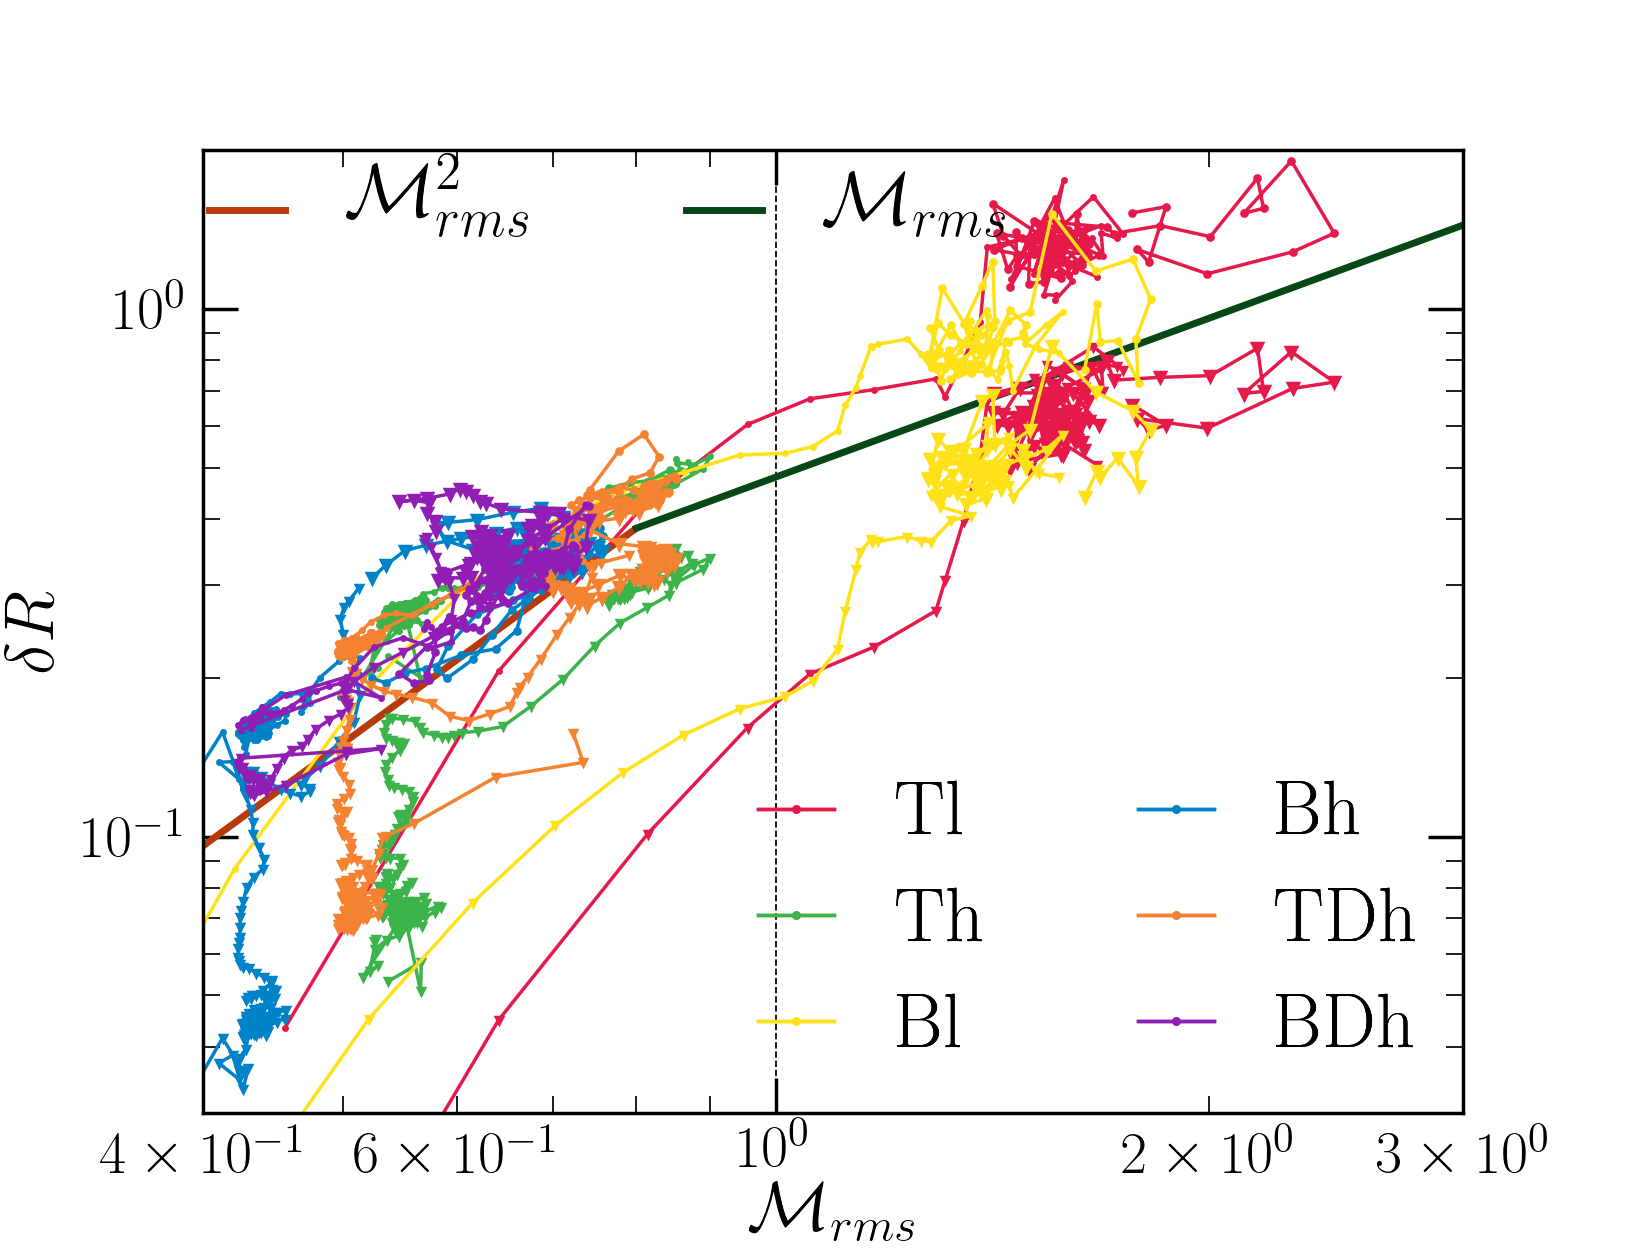
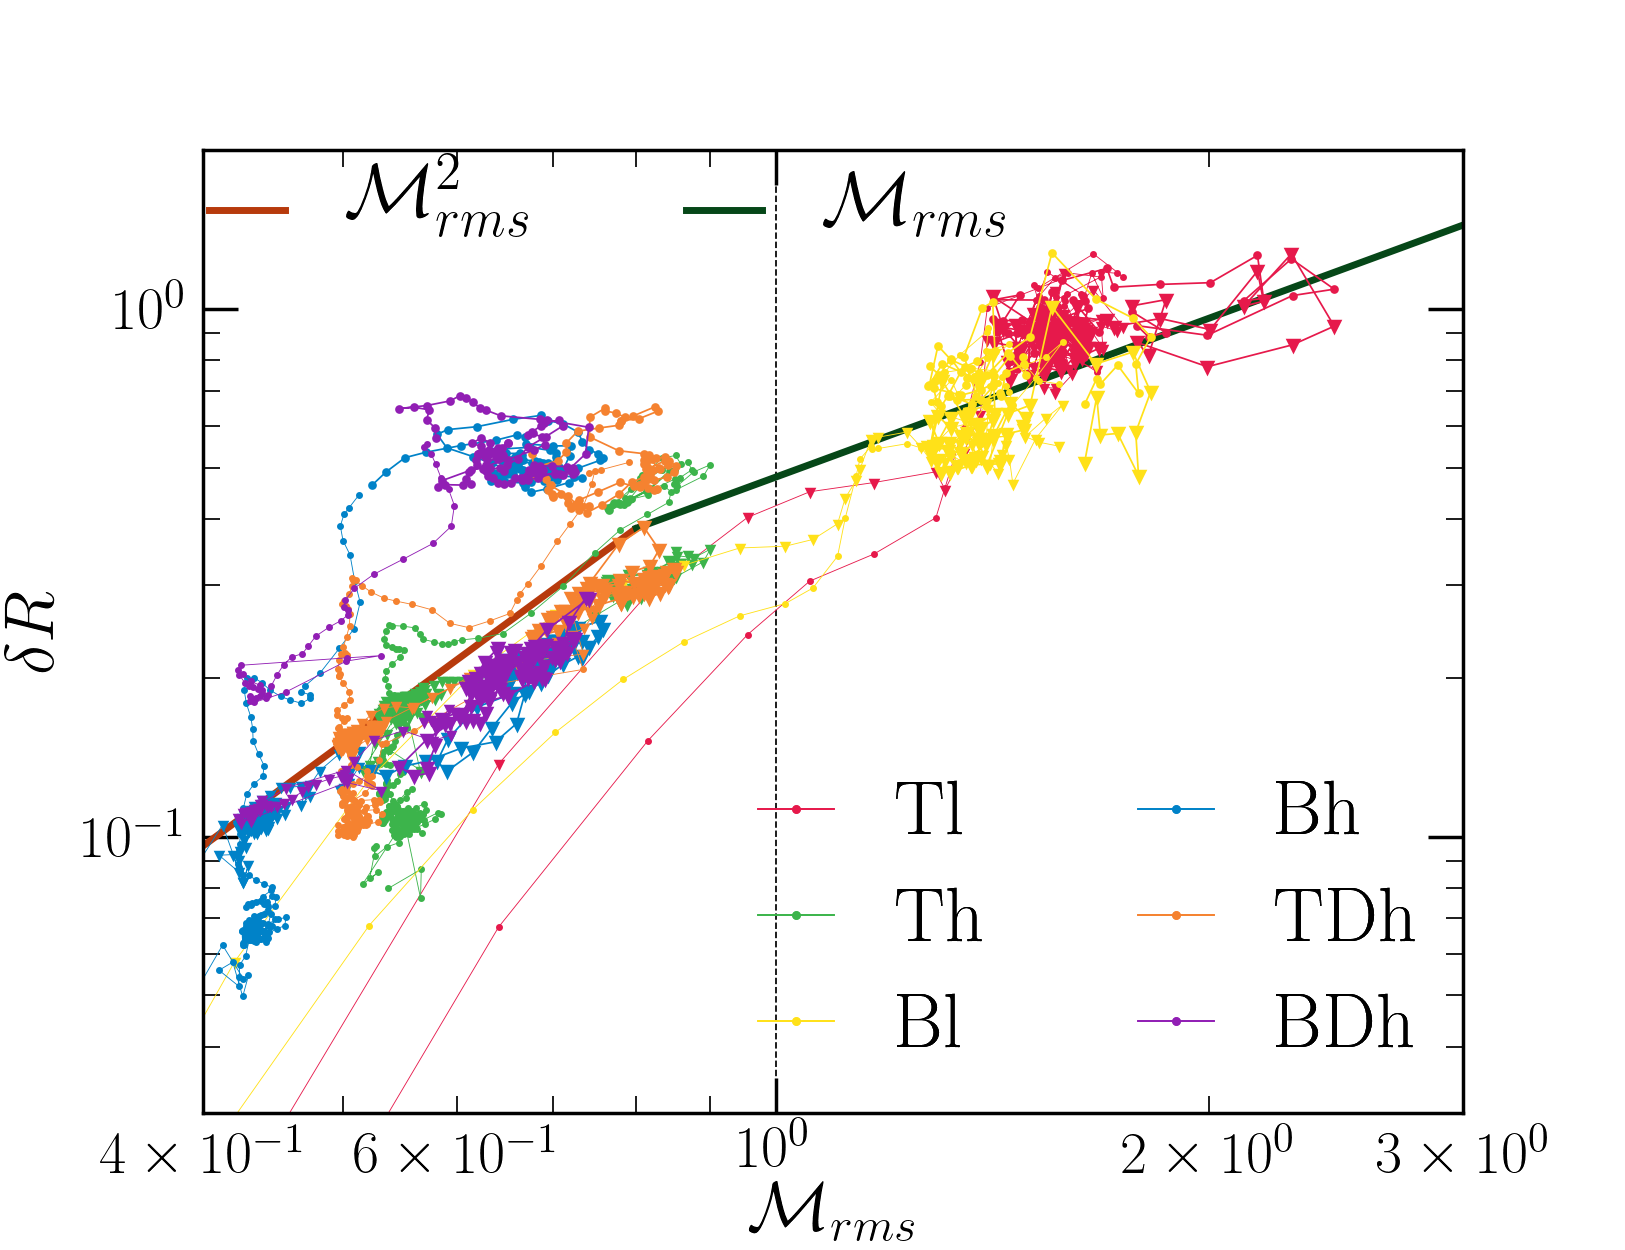
Edited plots

diff --git a/rho-mach/density_mach_all.py b/rho-mach/density_mach_all.py
@@ -20,6 +20,7 @@ wdir=('T-runs/Tl/', 'T-runs/Th/', 'B-runs/Bl/', 'B-runs/Bh/', 'T-runs/TDh/', 'B-
 labels=('Tl', 'Th', 'Bl', 'Bh', 'TDh', 'BDh')
 
 step_size=0.2
+#end=np.array((25., 53.2, 22.2, 53.2))#, 55.4, 31.))
 end=np.array((25., 53.2, 22.2, 53.2, 55.4, 31.))
 start=np.ones(end.size)*step_size
 start_time=np.array((10., 51., 10., 31., 40., 10.))
@@ -72,11 +73,11 @@ for i1 in xrange(0, start.size):
         #Load data
 	print file 
         #Plot the data
-        perturb1[i1],=ax.plot(data[:,2][:int(start_time[i1]/step_size)],1.5*data[:,0][:int(start_time[i1]/step_size)], label=labels[i1], color=colors[i1], marker=".", markersize=2., linewidth=1.)
-        perturb2[i1], =ax.plot(data[:,2][int(start_time[i1]/step_size):],1.5*data[:,0][int(start_time[i1]/step_size):], label=labels[i1], color=colors[i1], marker=".", markersize=3., linewidth=1.)
+        perturb1[i1],=ax.plot(data[:,2][:int(start_time[i1]/step_size)],1.5*data[:,1][:int(start_time[i1]/step_size)], label=labels[i1], color=colors[i1], marker=".", markersize=2., linewidth=.25)
+        perturb2[i1], =ax.plot(data[:,2][int(start_time[i1]/step_size):],1.5*data[:,1][int(start_time[i1]/step_size):], label=labels[i1], color=colors[i1], marker=".", markersize=3., linewidth=0.5)
 
-        perturb3[i1],=ax.plot(data[:,2][:int(start_time[i1]/step_size)],data[:,1][:int(start_time[i1]/step_size)], label=labels[i1], color=colors[i1], marker="v", markersize=2., linewidth=1.)
-        perturb4[i1], =ax.plot(data[:,2][int(start_time[i1]/step_size):],data[:,1][int(start_time[i1]/step_size):], label=labels[i1], color=colors[i1], marker="v", markersize=3., linewidth=1.)
+        perturb3[i1],=ax.plot(data[:,2][:int(start_time[i1]/step_size)],data[:,0][:int(start_time[i1]/step_size)], label=labels[i1], color=colors[i1], marker="v", markersize=2., linewidth=.25)
+        perturb4[i1], =ax.plot(data[:,2][int(start_time[i1]/step_size):],data[:,0][int(start_time[i1]/step_size):], label=labels[i1], color=colors[i1], marker="v", markersize=3., linewidth=0.5)
 
 
 perturb2_leg=ax.legend(handles=perturb2, loc='lower right', bbox_to_anchor=(1.02, -0.02), ncol=2, fontsize=22)
